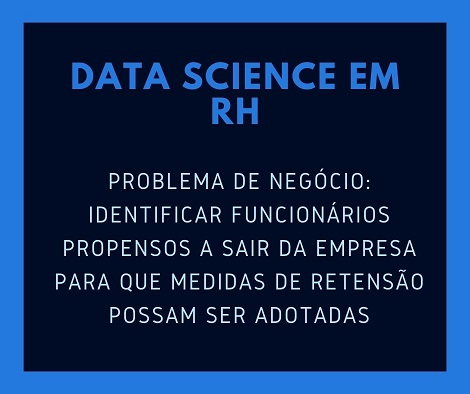
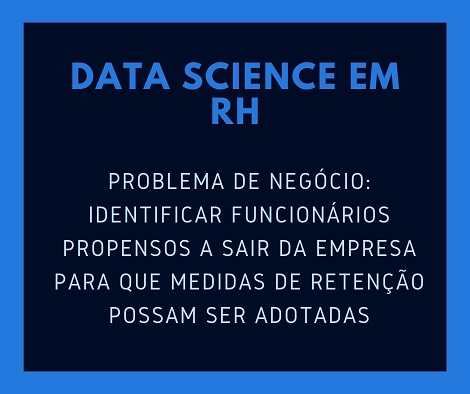
Revisão do Projeto 1

Changed region(s): [[0.6553, 0.7005, 0.9234, 0.7614], [0.3574, 0.7005, 0.6255, 0.731], [0.1191, 0.7005, 0.3277, 0.731]]

diff --git a/projects/project1/RH_Rev0.html b/projects/project1/RH_Rev0.html
@@ -14265,7 +14265,7 @@ a.anchor-link {
 <div class="jp-Cell-inputWrapper"><div class="jp-InputPrompt jp-InputArea-prompt">
 </div><div class="jp-RenderedHTMLCommon jp-RenderedMarkdown jp-MarkdownOutput " data-mime-type="text/markdown">
 <p><strong>Problema de Negócio:</strong>
-Identificar funcionários propensos a sair da empresa para que medidas de retensão possam ser adotadas.</p>
+Identificar funcionários propensos a sair da empresa para que medidas de retenção possam ser adotadas.</p>
 
 </div>
 </div>
